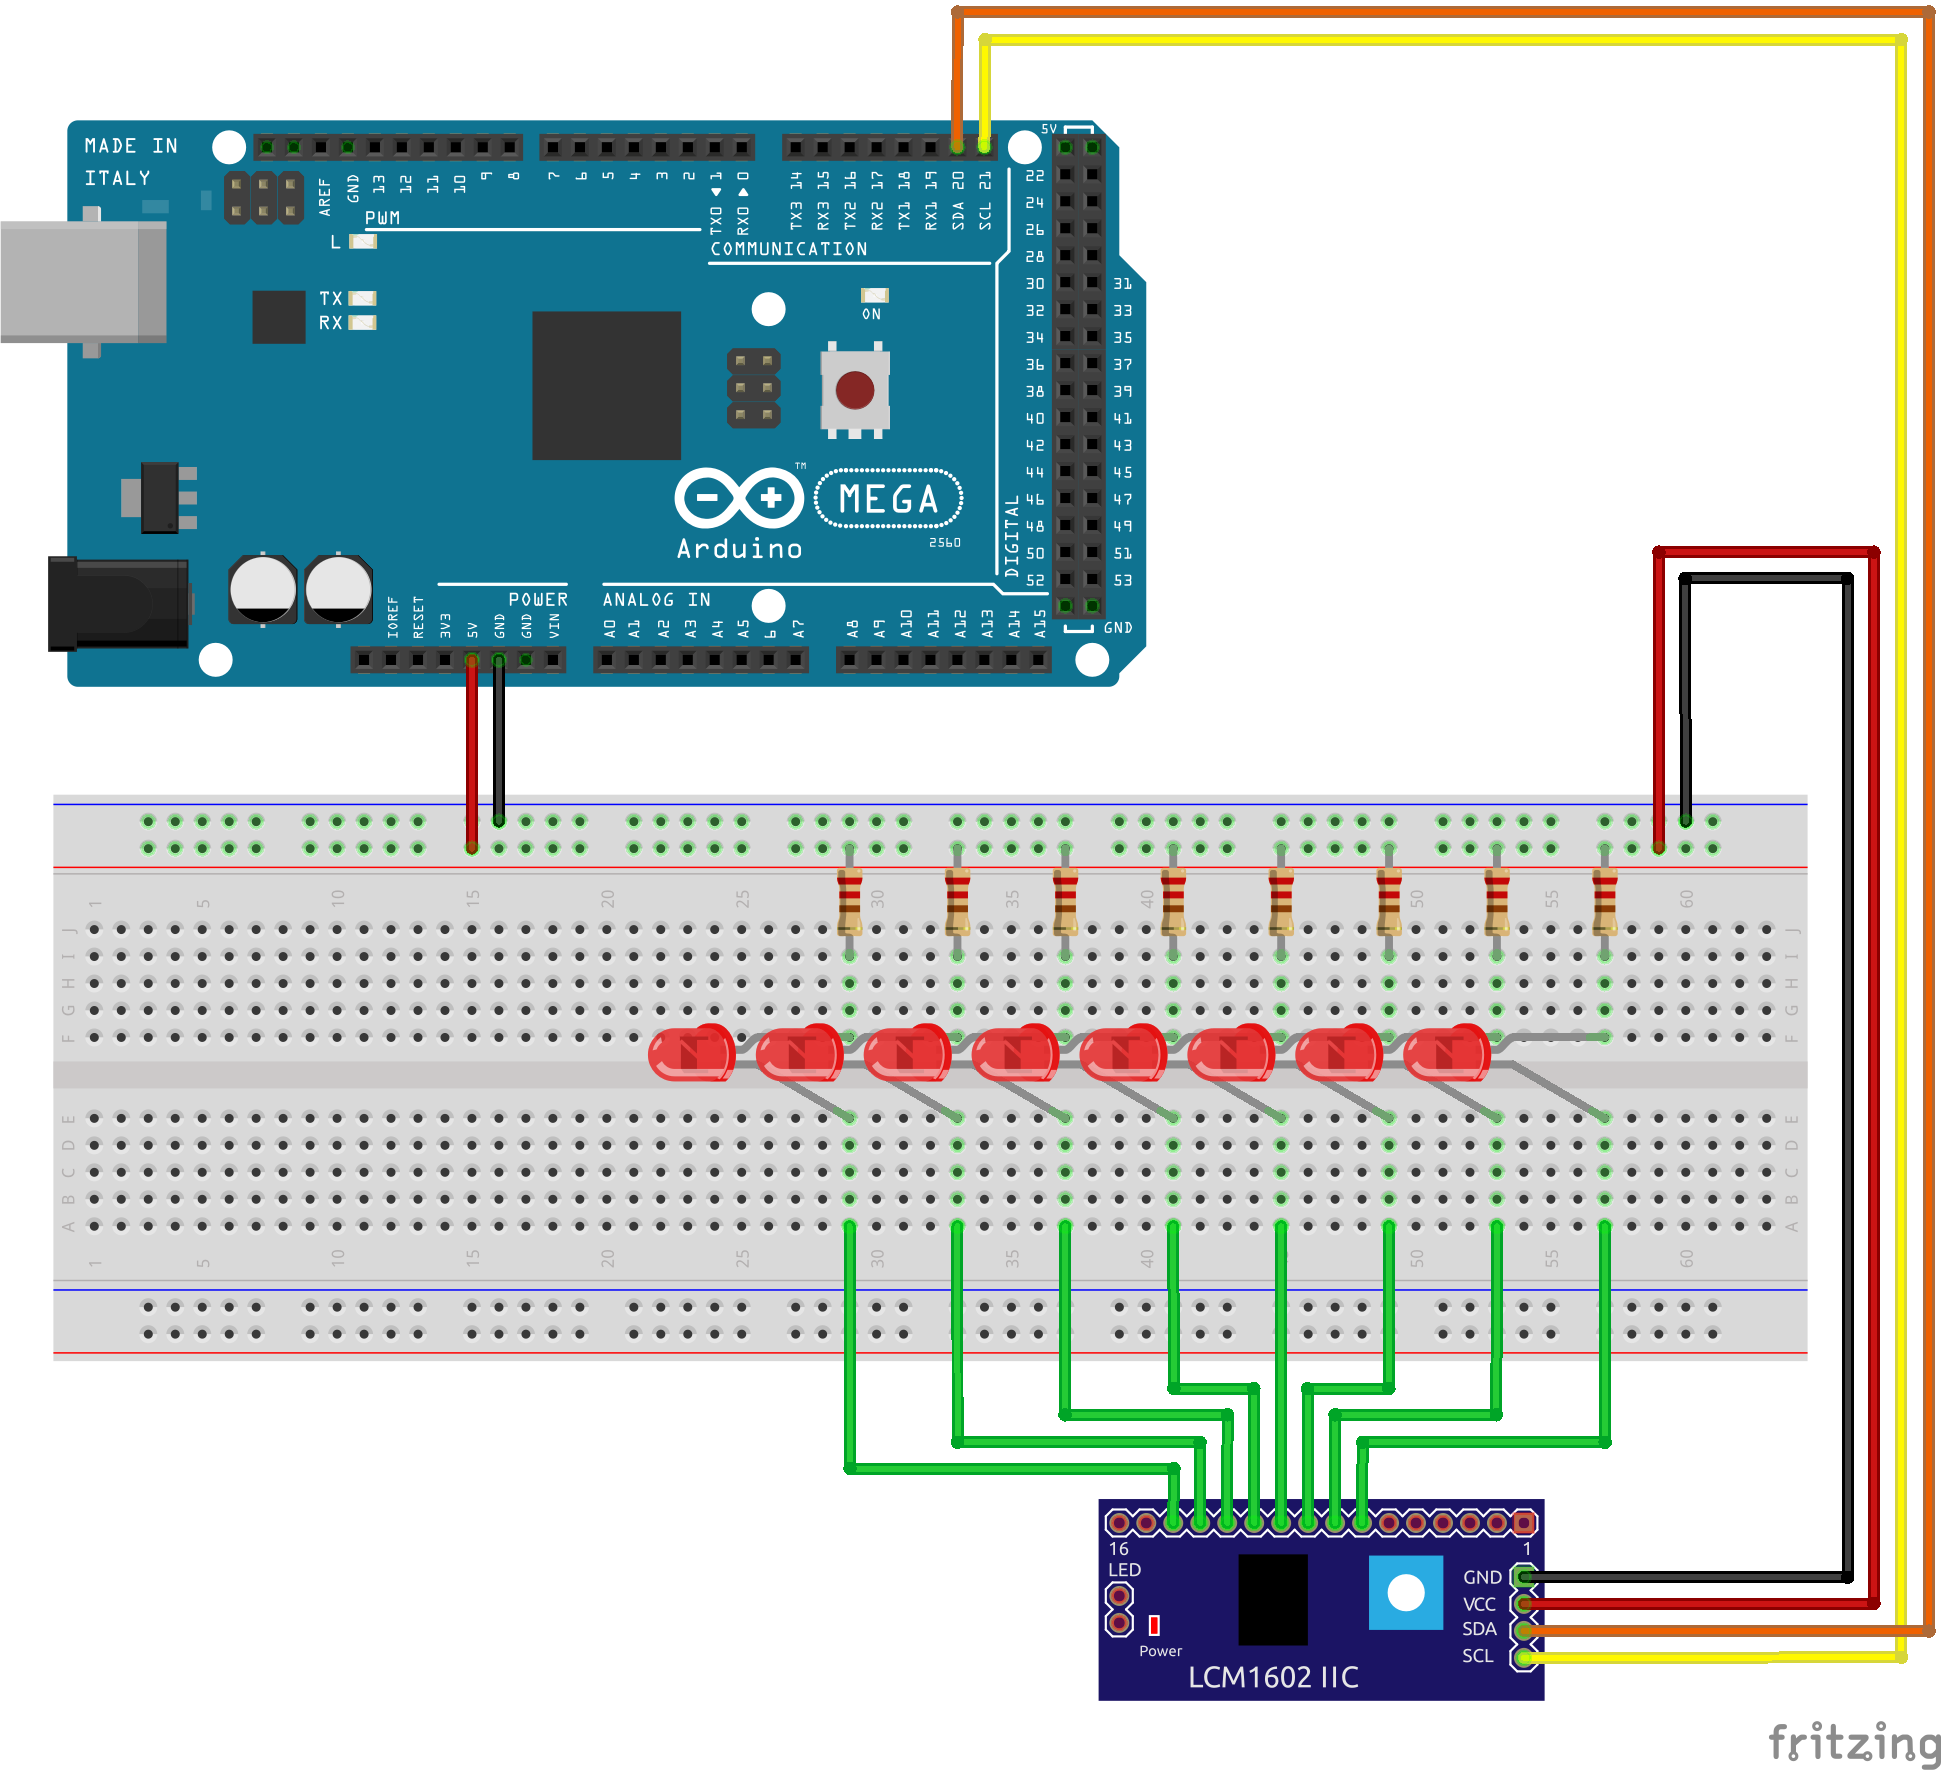
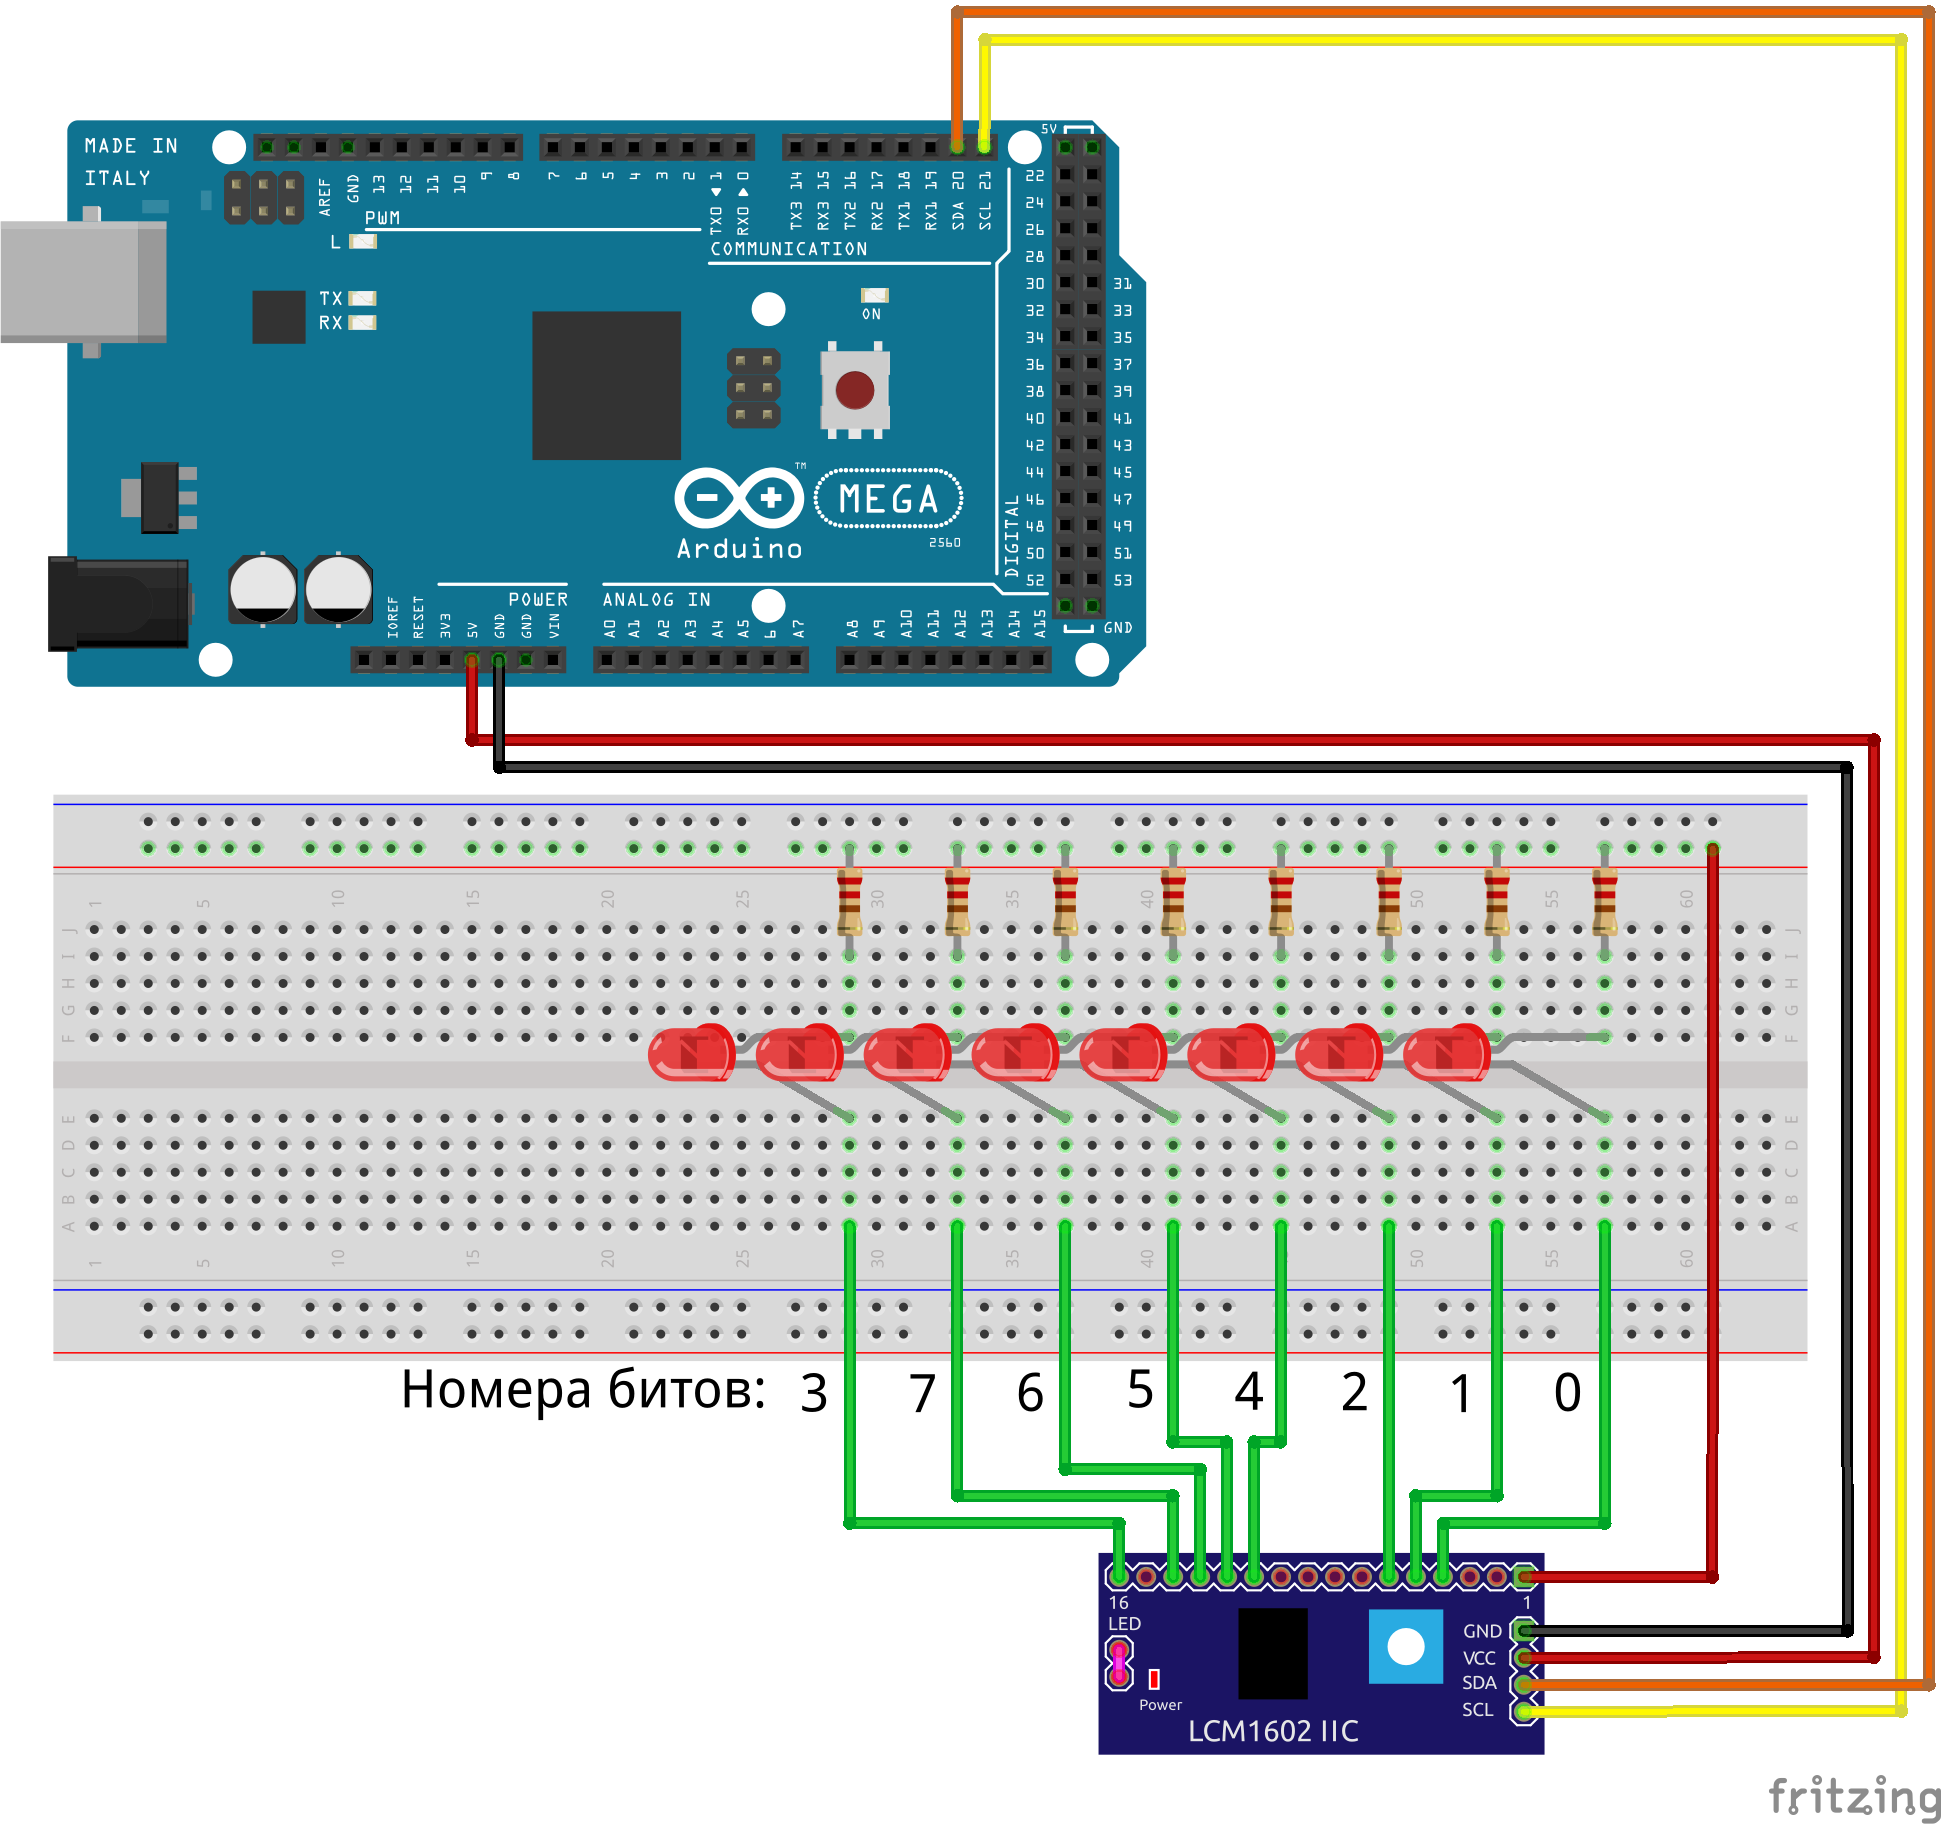
images/schematics/lcm1602-i2c-leds.fzz: Исправление ошибки
* images/schematics/lcm1602-i2c-leds.fzz: Исправление ошибки.
* images/schematics/lcm1602-i2c-leds.png: Обновление.
* sections/communication-i2c.tex: Дополнение.

diff --git a/sections/communication-i2c.tex b/sections/communication-i2c.tex
@@ -286,6 +286,17 @@ I2C-модуль тянет катод светодиода к земле, то 
 Данная конфигурация рекомендуется производителем
 микросхемы.\footnote{\url{https://static.chipdip.ru/lib/205/DOC000205430.pdf}}
 
+Есть ещё одна особенность, которую нам придётся учитывать при подключении и
+управлении светодиодами.  Поскольку микросхема PCF8574 имеет только 8 портов
+ввода-вывода, модуль ``LCM1602'' также фактически имеет столько же портов.
+Другие порты имеют или фиксированное значение, или просто никуда не подключены.
+Интересно, что третьим битом в нашей последовательности является катод подсветки
+``дисплея'' (которого у нас нет.)  Чтобы этот порт работал, надо обязательно
+замкнуть перемычку ``LED'' на модуле.  На схеме \ref{fig:lcm1602-i2c-leds}
+управляющие биты пронумерованы, и видно, что светодиоды в этом подключении идут
+как бы вразнобой -- это необходимо будет учесть при программировании светодиодных
+эффектов.
+
 Теперь, когда мы разобрались со сборкой схемы, подключим библиотеку
 \texttt{Wire} в скетче для Arduino, в самом верху программы:
 
